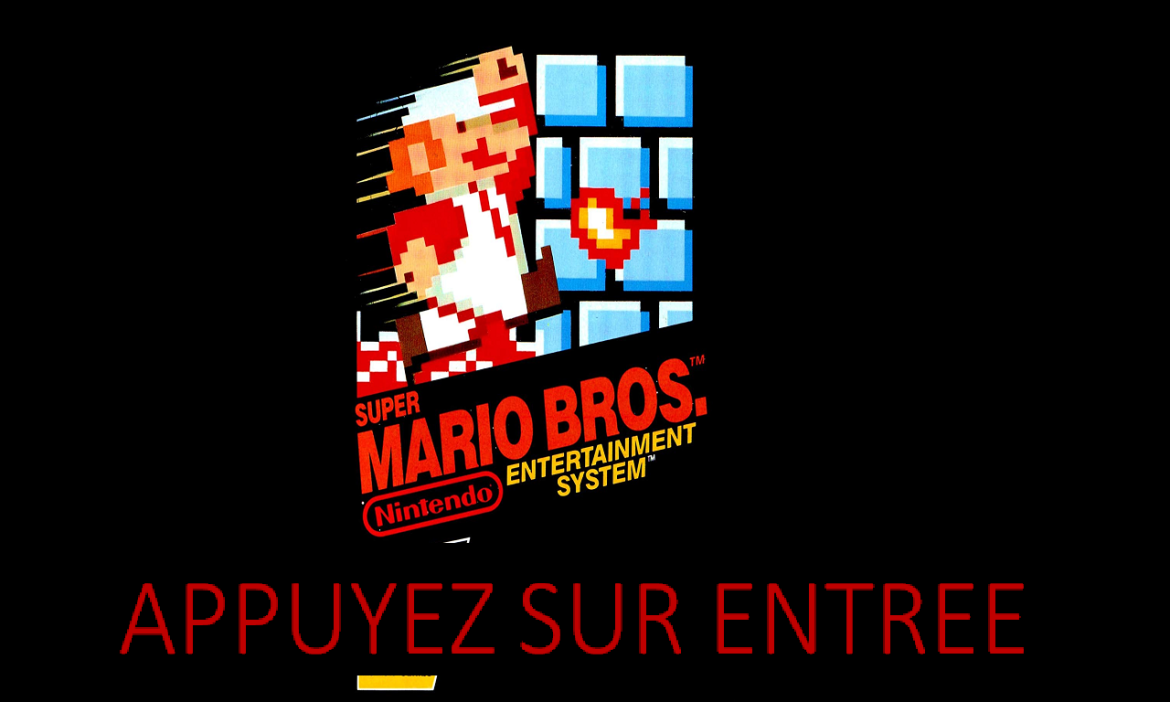
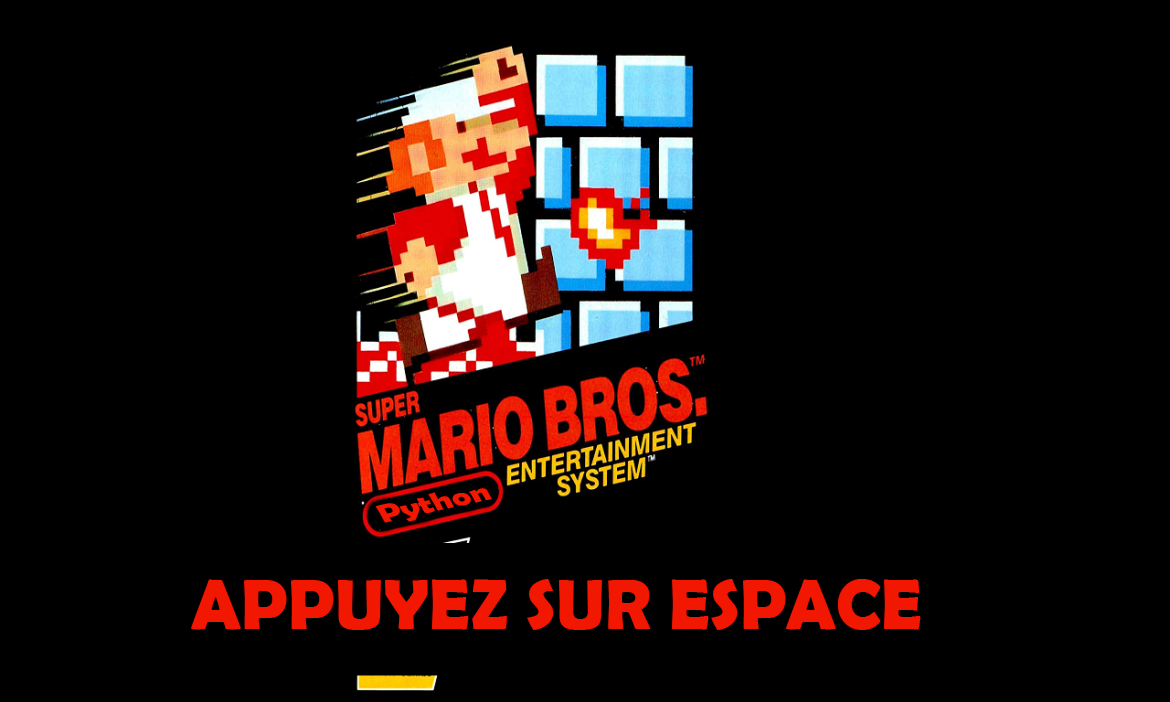
lastversion

Changed region(s): [[0.0923, 0.8077, 0.8923, 0.9573], [0.3077, 0.688, 0.4308, 0.7479]]

diff --git a/main3.py b/main3.py
@@ -523,7 +523,7 @@ class Player(pygame.sprite.Sprite):
                 Collision = True
                 self.collision_with_ground = True
                 old_y = self.rect.y
-                while Collision: #SystÃ¨me de collision amÃ©liorÃ© Pour etre sur que le joueur touche le sol pile poil a 100%
+                while Collision:
                     blocks_hit_list = pygame.sprite.spritecollide(self,sol_sprites,False)
                     if not (blocks_hit_list == []):
                         self.rect.y -= 1
@@ -857,7 +857,7 @@ while run:
         win.blit(attente_img,(0,0))
         for event in pygame.event.get():
             if event.type == pygame.KEYDOWN:
-                if event.key == pygame.K_:
+                if event.key == pygame.K_SPACE:
                     player.mort = False
                     map.reload()
 
